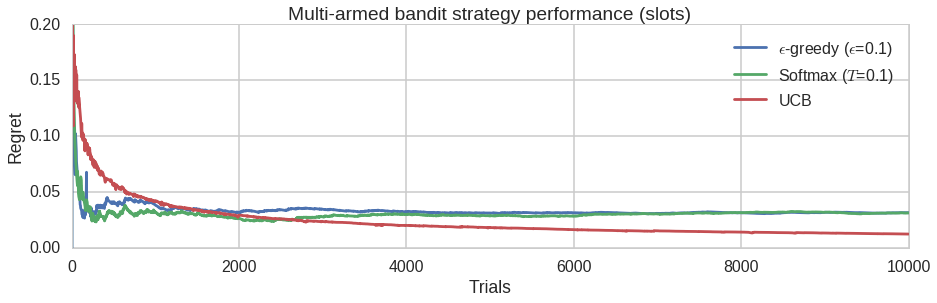
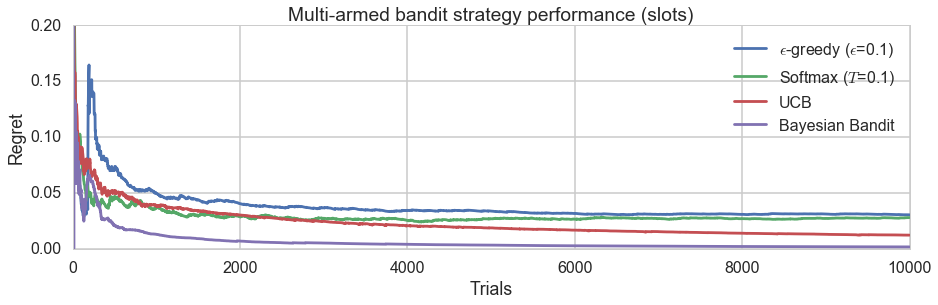
Adding bayesian bandit solution and updated docs to show how to run it.

diff --git a/slots/slots.py b/slots/slots.py
@@ -86,7 +86,7 @@ class MAB(object):
             self.stop_value = 0.1
 
         # Bandit selection strategies
-        self.strategies = ['eps_greedy', 'softmax', 'ucb']
+        self.strategies = ['eps_greedy', 'softmax', 'ucb', 'bayesian_bandit']
 
     def run(self, trials=100, strategy=None, parameters=None):
         '''
@@ -162,6 +162,15 @@ class MAB(object):
         """
 
         return np.argmax(self.wins / (self.pulls + 0.1))
+
+    def bayesian_bandit(self, params):
+        '''
+        Run the Bayesian Bandit algorithm which utilizes a beta distribution for exploration and exploitation.
+        :param params:
+        :return:
+        '''
+        p_success_arms = [np.random.beta(self.wins[i] + 1, self.pulls[i] - self.wins[i] + 1) for i in range(len(self.wins))]
+        return np.array(p_success_arms).argmax()
 
     def eps_greedy(self, params):
         '''

diff --git a/README.md b/README.md
@@ -75,11 +75,13 @@ probs = [0.4, 0.9, 0.8]
 ba = slots.MAB(probs=probs)
 bb = slots.MAB(probs=probs)
 bc = slots.MAB(probs=probs)
+bd = slots.MAB(probs=probs)
 
 # Run trials and calculate the regret after each trial
 rega = []
 regb = []
 regc = []
+regd = []
 for t in range(10000):
     ba._run('eps_greedy')
     rega.append(ba.regret())
@@ -87,6 +89,8 @@ for t in range(10000):
     regb.append(bb.regret())
     bc._run('ucb')
     regc.append(bc.regret())
+    bd._run('bayesian_bandit')
+    regd.append(bd.regret())
 
 
 # Pretty plotting
@@ -97,6 +101,7 @@ plt.figure(figsize=(15,4))
 plt.plot(rega, label='$\epsilon$-greedy ($\epsilon$=0.1)')
 plt.plot(regb, label='Softmax ($T$=0.1)')
 plt.plot(regc, label='UCB')
+plt.plot(regd, label='Bayesian Bandit')
 plt.legend()
 plt.xlabel('Trials')
 plt.ylabel('Regret')
